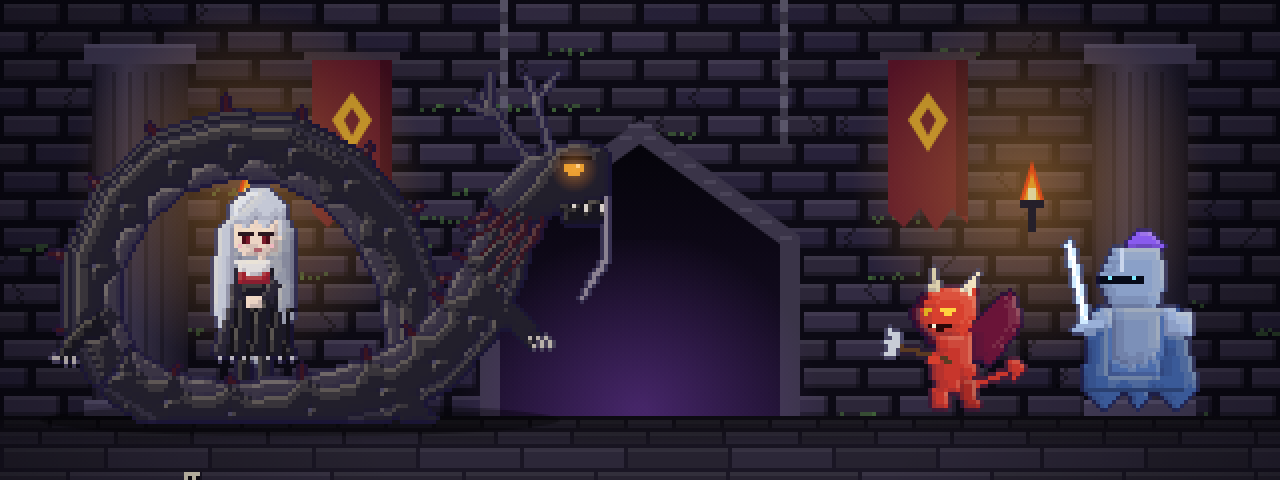
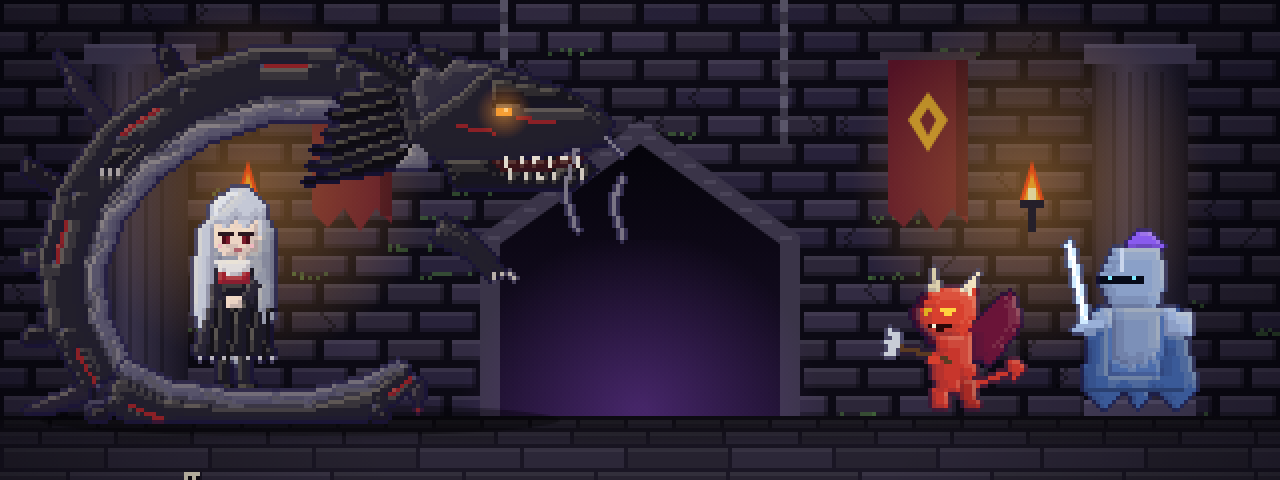
見本：黒龍を参考画像の方向に描き直し
Claude-Session: https://claude.ai/code/session_01WH54oS4KmYdGRLZPTJSRWC

Changed region(s): [[0.0, 0.0938, 0.5, 0.9062], [0.0312, 0.0938, 0.0938, 0.1875], [0.4375, 0.5625, 0.4688, 0.625]]

diff --git a/dev/mock/dragon_girl.js b/dev/mock/dragon_girl.js
@@ -20,30 +20,42 @@ SD.bgirl=[38,42,3,A0=>{const{r,p,q,l,t,e,sh,pt}=OFS(A0,2);const HA='#c4c8d6',HA2
   t([[15.4,13],[16.6,12],[16.8,18],[15.6,20]],HA);t([[24.6,11.6],[25.4,9],[25.6,16],[24.6,18]],HA3)});
  sh();
  pt('hd',()=>{const EY=(x,w)=>{t([[x,10.4],[x+w,10.3],[x+w,12],[x,12.1]],'#f4f0f2');t([[x+.3,10.4],[x+w-.1,10.3],[x+w-.2,12],[x+.3,12.1]],'#7a1a2a');t([[x+.5,11],[x+w-.3,10.9],[x+w-.3,11.9],[x+.5,12]],'#4a0c18');q(x+.4,10.6,'#ffffff');l(x-.2,10.3,x+w+.2,10.2,'#2a1820',.28)};EY(17.8,1.4);EY(21.2,1.6);l(20.2,13,21,13,'#b0606a',.15);q(17.6,12.6,'#f0b8c0');q(23.2,12.6,'#f0b8c0')})}];
-// 黒い竜（ユーザー指定：西洋のドラゴンでなく竜）。翼はなく長い体。後ろの層は少女の後ろで弓なりに上を越えて左へ下りる胴、前の層は足元の前を通って右で立ち上がる胴と頭
-// TUBE：点の列に沿って太さ w の帯を描き、背の鬣（たてがみ）・腹の帯・鱗の点を付ける
-const TUBE=(A,P,W,side)=>{const{t,l,q}=A,N=P.length,L=[],R=[];for(let i=0;i<N;i++){const a=P[Math.max(0,i-1)],b=P[Math.min(N-1,i+1)],dx=b[0]-a[0],dy=b[1]-a[1],m=Math.hypot(dx,dy)||1,nx=-dy/m,ny=dx/m,w=W[i]/2;L.push([P[i][0]+nx*w,P[i][1]+ny*w]);R.push([P[i][0]-nx*w,P[i][1]-ny*w])}
- for(let i=0;i+1<N;i++){t([L[i],L[i+1],R[i+1],R[i]],DK.B2);const mx=(P[i][0]+P[i+1][0])/2,my=(P[i][1]+P[i+1][1])/2;t([R[i],R[i+1],[mx*.55+R[i+1][0]*.45,my*.55+R[i+1][1]*.45],[mx*.55+R[i][0]*.45,my*.55+R[i][1]*.45]],'#3a3444')}
- for(let i=1;i+1<N;i++){const o=side?L:R;const a=P[i],c=o[i],dx=c[0]-a[0],dy=c[1]-a[1];t([[c[0]-dy*.12,c[1]+dx*.12],[c[0]+dx*.55,c[1]+dy*.55],[c[0]+dy*.12,c[1]-dx*.12]],'#3a1420')}
- for(let i=0;i<N;i++){q(P[i][0],P[i][1],DK.HL)}for(let i=0;i+1<N;i++)l(L[i][0]*.7+P[i][0]*.3,L[i][1]*.7+P[i][1]*.3,L[i+1][0]*.7+P[i+1][0]*.3,L[i+1][1]*.7+P[i+1][1]*.3,DK.B3,.3)};
-SD.bdragB=[96,60,3,A0=>{const A=OFS(A0,2),{sh}=A;
- const P=[[64,47],[63,36],[59,26],[52,18],[43,13],[33,12],[23,15],[15,22],[10,32],[10,42],[14,50]],W=[9,9.6,10.4,10.8,11,10.8,10.6,10.2,9.8,9.4,9];TUBE(A,P,W,1);
- // 後ろの小さな脚
- A.t([[11,40],[6,44],[4,48],[7,48],[9,45],[13,44]],DK.B1);for(const a of[3.6,5,6.4])A.t([[a,47.6],[a+1,47.6],[a+.2,49.4]],'#a8a0a0');
+// 黒い竜（ユーザー指定：参考画像の黒龍。翼のない長い体が足元を巻いてから後ろで大きくそびえ、高い所から頭を突き出す。背に羽のような大きな黒い鬣、腹は銀灰色、赤い光の筋、橙の目、長いひげ）
+// TUBE：点の列に沿って太さ W の帯を描く。side の側に鬣（mn 長さ）、反対側に腹の帯
+const TUBE=(A,P,W,side,mn)=>{const{t,l,q}=A,N=P.length,L=[],R=[],NM=[];for(let i=0;i<N;i++){const a=P[Math.max(0,i-1)],b=P[Math.min(N-1,i+1)],dx=b[0]-a[0],dy=b[1]-a[1],m=Math.hypot(dx,dy)||1,nx=-dy/m,ny=dx/m,w=W[i]/2;NM.push([nx,ny]);L.push([P[i][0]+nx*w,P[i][1]+ny*w]);R.push([P[i][0]-nx*w,P[i][1]-ny*w])}
+ const O=side?L:R,I=side?R:L,sg=side?1:-1;
+ // 鬣：外側に羽のような房
+ for(let i=0;i<N;i++){const[nx,ny]=NM[i],c=O[i],k=(mn||1)*W[i]*.55,tx=-ny,ty=nx;t([[c[0]-tx*1.4,c[1]-ty*1.4],[c[0]+sg*nx*k-tx*2.2,c[1]+sg*ny*k-ty*2.2],[c[0]+sg*nx*k*.5+tx*.6,c[1]+sg*ny*k*.5+ty*.6],[c[0]+tx*1.4,c[1]+ty*1.4]],i%2?'#1a1622':'#262030');const tp=[c[0]+sg*nx*k-tx*2.2,c[1]+sg*ny*k-ty*2.2];q(tp[0],tp[1],'#7a2028')}
+ for(let i=0;i+1<N;i++){t([L[i],L[i+1],R[i+1],R[i]],DK.B2);const f=.3;t([I[i],I[i+1],[I[i+1][0]*(1-f)+P[i+1][0]*f*0+O[i+1][0]*f,I[i+1][1]*(1-f)+O[i+1][1]*f],[I[i][0]*(1-f)+O[i][0]*f,I[i][1]*(1-f)+O[i][1]*f]],'#58546a')}
+ for(let i=0;i+1<N;i++){const f=.3,a=[I[i][0]*(1-f)+O[i][0]*f,I[i][1]*(1-f)+O[i][1]*f],b=[I[i+1][0]*(1-f)+O[i+1][0]*f,I[i+1][1]*(1-f)+O[i+1][1]*f];l(a[0],a[1],b[0],b[1],'#3a3644',.3);const m=[(I[i][0]+I[i+1][0]+a[0]+b[0])/4,(I[i][1]+I[i+1][1]+a[1]+b[1])/4];l(a[0],a[1],m[0],m[1],'#56525e',.2)}
+ for(let i=0;i+1<N;i+=2){const c=[(P[i][0]+O[i][0])/2,(P[i][1]+O[i][1])/2],d=[(P[i+1][0]+O[i+1][0])/2,(P[i+1][1]+O[i+1][1])/2];l(c[0],c[1],d[0]*.6+c[0]*.4,d[1]*.6+c[1]*.4,'#8a2026',.25)}
+ for(let i=0;i<N;i++)q((P[i][0]+O[i][0])/2,(P[i][1]+O[i][1])/2,DK.HL)};
+SD.bdragB=[100,62,3,A0=>{const A=OFS(A0,4),{sh}=A;
+ // 少女の後ろ：左下から立ち上がり、高く弓なりに右へ
+ const P=[[14,51],[9,42],[8,32],[11,22],[18,13],[28,6],[40,2],[52,2],[62,6]],W=[9,10,11,12,12.6,12.6,12.4,12,11.4];TUBE(A,P,W,0,2.2);
+ // 奥の小さな脚
+ A.t([[20,12],[16,16],[13,16],[15,13]],DK.B1);for(const a of[12.6,14,15.4])A.t([[a,15.6],[a+.8,16],[a+.2,17.6]],'#a8a0a0');
  sh()}];
-SD.bdragF=[96,60,3,A0=>{const A=OFS(A0,2),{sh}=A;const D=DK;const k=1.3,cx=80,cy=26,X=x=>cx+(x-cx)*k,Y=y=>cy+(y-cy)*k,H={t:(P,c)=>A.t(P.map(a=>[X(a[0]),Y(a[1])]),c),l:(a,b,c,d,col,w)=>A.l(X(a),Y(b),X(c),Y(d),col,w*k),e:(a,b,c,d,col)=>A.e(X(a),Y(b),c*k,d*k,col),q:(a,b,c)=>A.q(X(a),Y(b),c)},{t,l,e,q}=H;
- const P=[[14,50],[22,55],[33,57],[46,56],[58,53],[67,48],[73,41],[77,33],[79,26]],W=[9,9.4,9.8,10,10.4,10.6,10.6,10,9.4];TUBE(A,P,W,0);
- // 前の脚：爪を地面に
- A.t([[60,50],[64,52],[66,57],[69,58.6],[62,58.6],[60,55]],D.B2);for(const a of[63,65,67])A.t([[a,58],[a+1,58],[a+1.6,59.6]],'#b8b0a8');
- A.t([[76,36],[82,40],[85,44],[83,46],[80,43],[75,41]],D.B2);for(const a of[82.6,84,85.4])A.t([[a,44],[a+1,44.4],[a+1.2,46.4]],'#b8b0a8');
- // 頭：長い鼻面、開いた顎、後ろへ枝分かれする角、長いひげ、鬣
- t([[77,22],[82,17],[89,15],[95,17],[96,20],[92,22],[86,24],[80,26]],D.B2);t([[77,22],[82,17],[86,16],[83,20],[79,24]],D.B3);
- t([[86,23],[95,22],[94,25],[87,25.6]],D.B1);for(let k=0;k<4;k++)t([[87.4+k*1.8,22.8],[88.2+k*1.8,22.8],[87.8+k*1.8,24.2]],'#d8d0c8');t([[94.6,18],[96,19],[95.4,20]],'#1a1820');
- // 角（鹿のように枝分かれ）
- l(82,17,76,9,'#4a4450',.7);l(78,11.6,74,10,'#4a4450',.45);l(77,10,77,6,'#4a4450',.45);l(85,16,82,7,'#56505e',.6);l(83,10,86,6,'#56505e',.4);
- // 鬣
- for(let k=0;k<5;k++)t([[78+k*1.6,23+k*.2],[73+k*1.2,26+k*2],[77+k*1.6,25+k*.6]],'#3a1420');
+SD.bdragF=[100,62,3,A0=>{const A=OFS(A0,4),{sh}=A;const D=DK;
+ // 足元の前を通る尾（右から左へ、細くなって後ろへ回る）
+ const T=[[64,50],[58,54],[48,57],[36,57.6],[24,56],[15,52]],TW=[5,6.4,7.6,8.4,8.8,9];TUBE(A,T,TW,0,1.4);
+ // 頭：大きく、右の敵へ。太い眉骨、開いた顎、後ろへ流れる角、ひげ
+ const k=1,cx=64,cy=8,X=x=>cx+(x-cx)*k,Y=y=>cy+(y-cy)*k,t=(P,c)=>A.t(P.map(a=>[X(a[0]),Y(a[1])]),c),l=(a,b,c,d,col,w)=>A.l(X(a),Y(b),X(c),Y(d),col,w),e=(a,b,c,d,col)=>A.e(X(a),Y(b),c,d,col),q=(a,b,c)=>A.q(X(a),Y(b),c);
+ // 首のつなぎ
+ t([[56,0],[64,-1],[70,4],[68,14],[60,14],[56,8]],D.B2);t([[60,12],[68,12],[67,16],[61,16]],'#6c6876');
+ // 頭蓋と鼻面
+ t([[64,0],[72,-2],[82,0],[92,4],[98,8],[97,12],[90,13],[80,15],[70,15],[64,11]],D.B2);t([[64,0],[72,-2],[78,-1],[72,4],[66,8]],D.B3);
+ t([[78,1],[90,3],[94,6],[86,6],[78,5]],D.B1);
+ // 下顎（開いた口）と牙
+ t([[70,15],[80,15],[90,14],[96,16],[92,19],[82,19.6],[72,19]],D.B1);t([[78,15],[94,14],[92,16],[80,17]],'#3a1418');
+ for(let i=0;i<6;i++){t([[80+i*2.4,14.2],[81+i*2.4,14.2],[80.4+i*2.4,16]],'#e0d8cc');t([[80.6+i*2.4,17.8],[81.6+i*2.4,17.8],[81+i*2.4,16.2]],'#d0c8bc')}
+ // 角：後ろへ鋭く
+ t([[66,0],[58,-4],[48,-6],[56,-2],[64,3]],D.B1);t([[72,-2],[66,-6],[58,-10],[64,-5],[70,0]],D.B1);t([[60,-4],[56,-9],[58,-4]],D.B1);
+ // 鬣（頭の後ろの羽のような房）
+ for(let i=0;i<6;i++)t([[62+i*.6,2+i*2],[52-i*1.4,4+i*3],[56-i,8+i*2],[62,6+i*2]],i%2?'#0e0c12':'#16131c');
+ // 前脚：爪を広げる
+ A.t([[70,24],[76,28],[80,33],[78,35],[74,31],[68,28]],D.B2);for(const a of[77.4,79,80.6])A.t([[a,33],[a+1,33.4],[a+1.4,35.6]],'#b8b0a8');
  sh();
- // ひげ：長く後ろへなびく
- l(94,20,98,26,'#8a8090',.25);l(98,26,95,32,'#8a8090',.22);l(92,22,92,30,'#8a8090',.22);l(92,30,89,35,'#8a8090',.2);
- e(88,18.4,1.3,.8,D.EY);q(88.3,18.2,'#fff0c0');l(86.6,17.2,90,17,D.B0,.3)}];
+ // 目と赤い筋、ひげ
+ e(80,6.6,1.6,.9,'#f09a30');A.q(X(80.4),Y(6.4),'#fff0c0');l(78,5.4,82.6,5,D.B0,.3);l(82,7.6,88,8.6,'#8a2026',.25);l(72,9,78,10,'#8a2026',.2);
+ l(97,11,101,15,'#7a7484',.22);l(101,15,98,22,'#7a7484',.2);l(98,22,100,28,'#7a7484',.18);l(92,13,90,20,'#7a7484',.2);l(90,20,92,26,'#7a7484',.18)}];

diff --git a/dev/mock/dragon_girl_shot.js b/dev/mock/dragon_girl_shot.js
@@ -5,8 +5,8 @@ await p.route('**/fonts.googleapis.com/**',r=>r.abort());await p.goto('file://'+
 await p.evaluate(code=>{eval(code);const P=k=>paint(SD[k][0],SD[k][1],SD[k][3],SD[k][2]),G=P('bgirl'),DB=P('bdragB'),DF=P('bdragF');
  const cv=document.createElement('canvas');cv.width=640;cv.height=240;cv.id='sh';cv.style.cssText='position:fixed;left:0;top:0;width:640px;height:240px;z-index:99;image-rendering:pixelated';document.body.appendChild(cv);const g=cv.getContext('2d');g.imageSmoothingEnabled=false;
  g.drawImage(BGB2,0,0);g.fillStyle='rgba(0,0,0,.35)';g.beginPath();g.ellipse(150,210,130,8,0,0,7);g.fill();
- const X=14,Y=212-DB.height;g.drawImage(DB,X,Y);g.drawImage(G,X+36*3-57,208-G.height);g.drawImage(DF,X,Y);
- {const x=X+(80+(88-80)*1.3)*3+2,y=Y+(26+(18.4-26)*1.3+2)*3+2,gg=g.createRadialGradient(x,y,0,x,y,12);gg.addColorStop(0,'rgba(255,170,60,.5)');gg.addColorStop(1,'rgba(255,120,30,0)');g.fillStyle=gg;g.fillRect(x-12,y-12,24,24)}
+ const X=10,Y=212-DB.height;g.drawImage(DB,X,Y);g.drawImage(G,X+34*3-57,208-G.height);g.drawImage(DF,X,Y);
+ {const x=X+80*3+2,y=Y+(6.6+4)*3+2,gg=g.createRadialGradient(x,y,0,x,y,14);gg.addColorStop(0,'rgba(255,170,60,.55)');gg.addColorStop(1,'rgba(255,120,30,0)');g.fillStyle=gg;g.fillRect(x-14,y-14,28,28)}
  for(const k of['imp','knight']){const im=SPR[k];g.drawImage(im,k==='imp'?440:530,208-im.height)}
 },fs.readFileSync(path.join(__dirname,'dragon_girl.js'),'utf8'));
 await p.locator('#sh').screenshot({path:out});console.log(er);await b.close()})();
